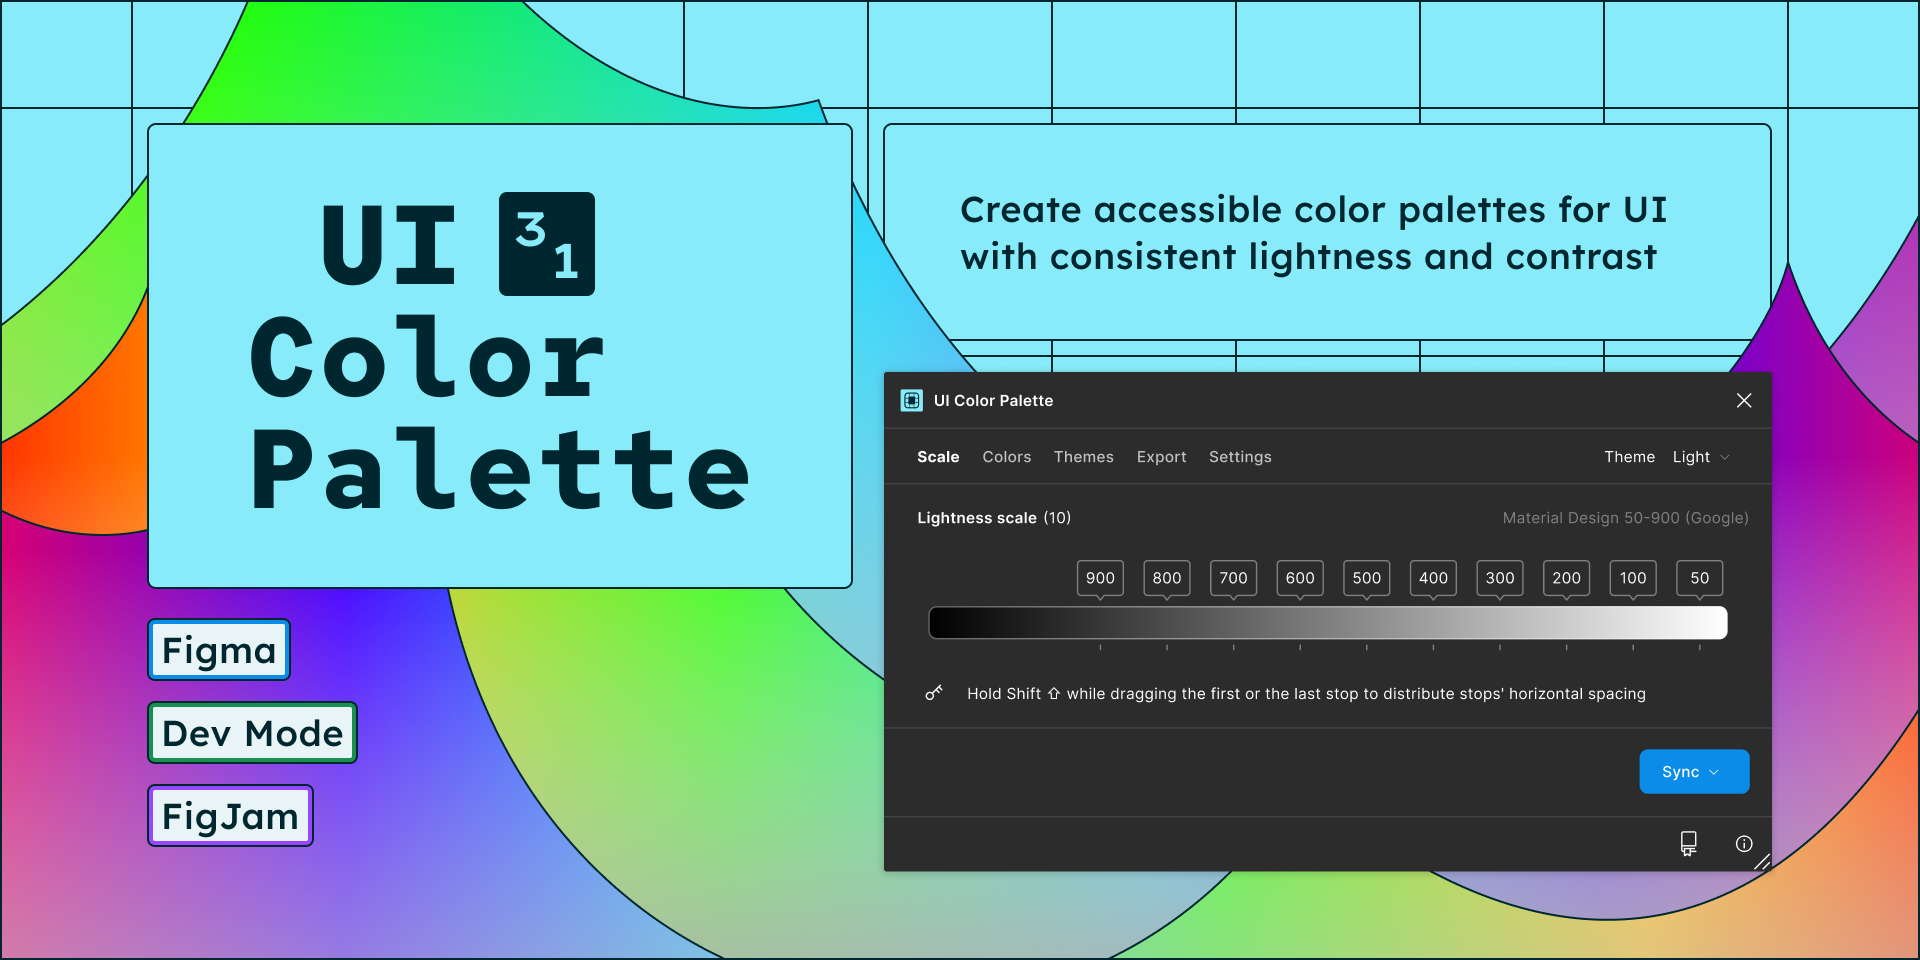
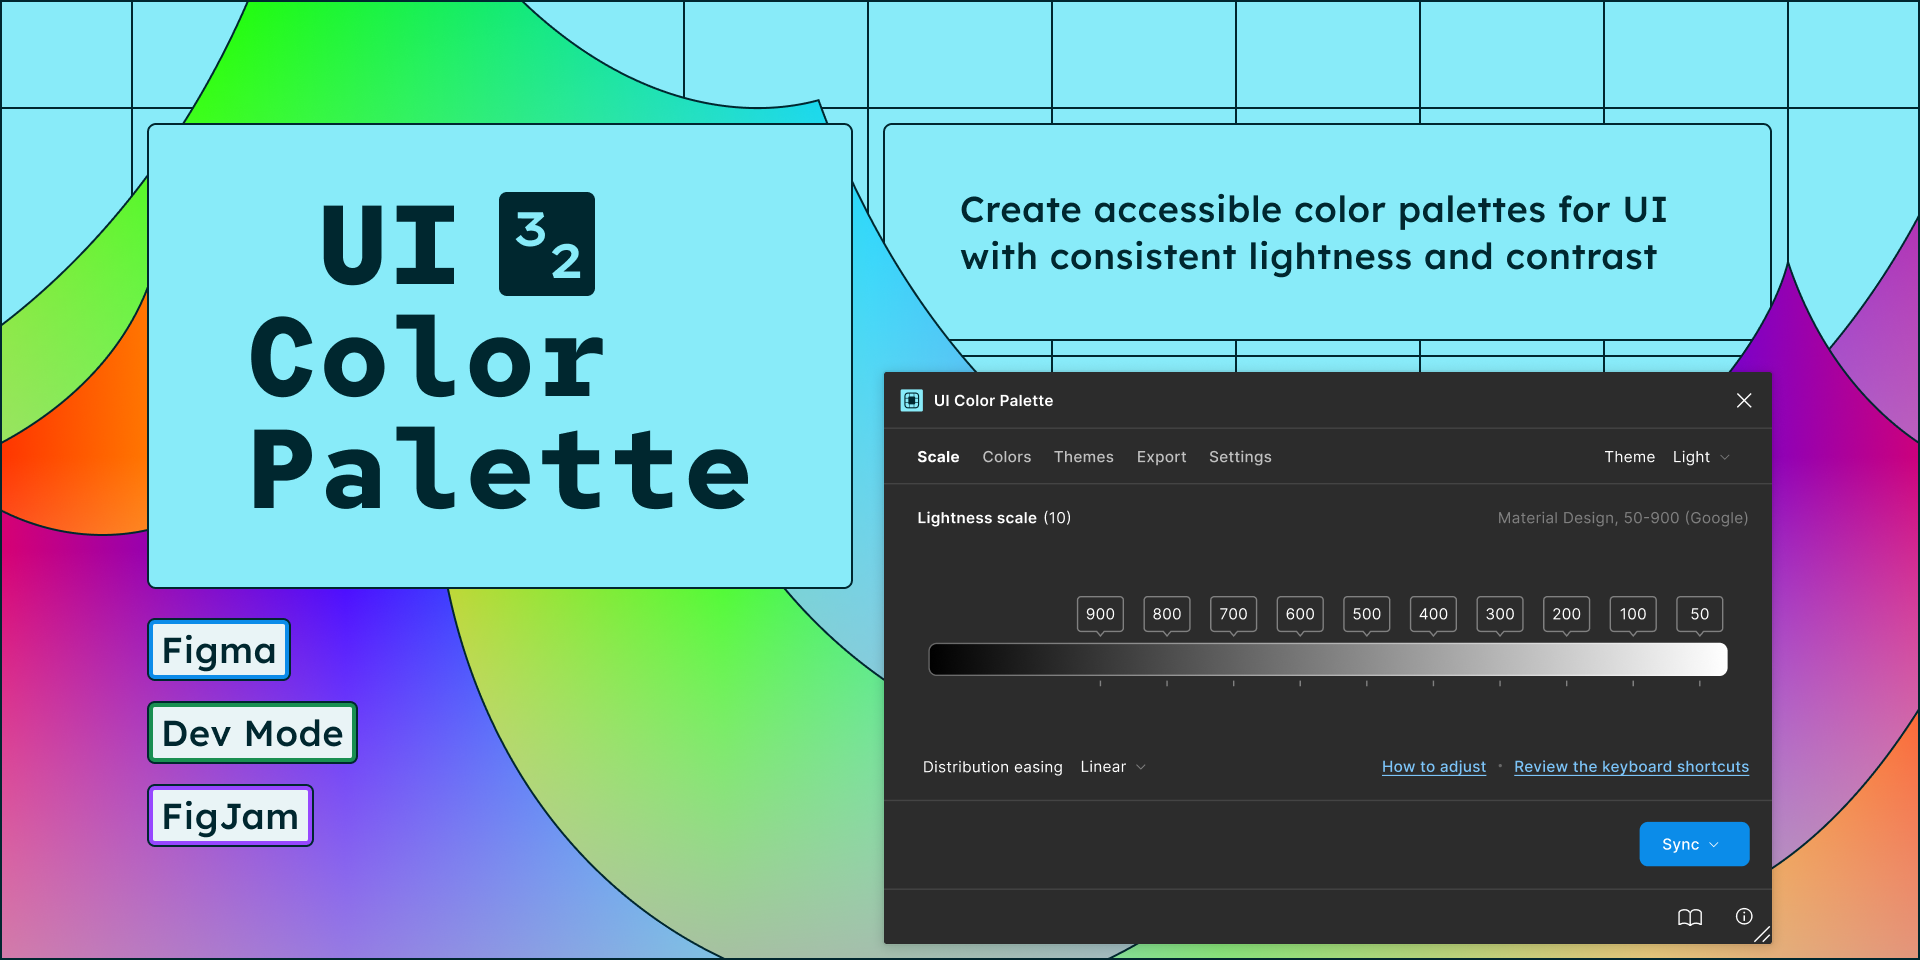
GITBOOK-34: v32

diff --git a/release-notes/ui-color-palette-32.md b/release-notes/ui-color-palette-32.md
@@ -1,0 +1,57 @@
+---
+description: For a better color scaling management
+layout: landing
+---
+
+# UI Color Palette 32
+
+{% embed url="https://drive.google.com/file/d/1-PQqJWuTUx24a5tJYxNdPZNnmTD4BwLj/view?usp=sharing" %}
+
+## Key Feature
+
+### Stops Distribution Easing
+
+<figure><img src="../.gitbook/assets/release_note-distribution_easing.png" alt=""><figcaption></figcaption></figure>
+
+You can distribute stops using pre-configured easing such as "ease" or "ease-in". This method provides a quick way to evenly distribute them across the range, thereby enhancing harmonized color scaling.
+
+## Improvements
+
+### **Canny Forefront Integration**
+
+<figure><img src="../.gitbook/assets/release_note-canny.png" alt=""><figcaption></figcaption></figure>
+
+Canny has been emphasized and prioritized. This promotes user feedback and increases the visibility of community discussions, creating a more interactive and communicative user experience.
+
+### **Custom Naming Convention**
+
+<figure><img src="../.gitbook/assets/release_note-naming_convention.png" alt=""><figcaption></figcaption></figure>
+
+The naming convention within the Custom preset can be adjusted to either increase or decrease the stop number (from 1-10, 10-100, or 100-1000). This option is only available when creating a palette.
+
+### **Scale Tips Simplification**
+
+The tips for using color scaling editing have been clarified and simplified. This update is designed to make these tips easier to understand, providing users with guidance on adjusting the lightness scale with fewer actions.
+
+### **Migration to Dynamically Load Pages**
+
+A migration to Dynamically Load Pages has been implemented. This development is designed to improve the speed and responsiveness of the document, thus reducing load times.
+
+## Minor Changes
+
+* Users can click outside a dialog box to close it.
+* A cursor has been integrated to signify the addition of a stop.
+
+## Bug Fixes
+
+* An issue that was preventing the creation of a palette with properties using Quick Action has been resolved.
+
+***
+
+Also, we want to remind you that we're always listening to your [feedback ](https://uicp.link/feedback)and also your [feature requests](https://uicp.link/feature-requests) and we've made sure to incorporate your most recent feedback into these updates to ensure that they're tailored to your needs.
+
+Besides, you can always get support by sending us an email at [hello@ui-color-palette.com](mailto:hello@ui-color-palette.com) and help us improve the quality of UI Color Palette by [reporting a bug](https://uicp.link/report).
+
+Enjoy your updated UI Color Palette!
+
+UI Color Palette Team

diff --git a/edit-a-color-palette/overview.md b/edit-a-color-palette/overview.md
@@ -14,11 +14,12 @@ description: A quick glance at the controller
    5. `Settings`: Palette configuration.
 2. Select a configured `Color theme`.
 3. Adjust the `Lightness scale`'s stops.
-4. Run the action:
+4. Select a `Distribution easing`.
+5. Run the action:
    1. `Sync the local styles`: Sync the color shades with the document's local styles.
    2. `Sync the local variables`: Sync the color shades with the documents' local variables.
-5. Add a new color to the palette.
-6. Adjust the `Source colors` (from the left to the right):
+6. Add a new color to the palette.
+7. Adjust the `Source colors` (from the left to the right):
    1. Color name
    2. Hexadecimal code
    3. LCH
@@ -26,20 +27,20 @@ description: A quick glance at the controller
    5. Remove
    6. Hue range shifting
    7. Description
-7. Add a new theme to the palette.
-8. Adjust the `Color themes` (from the left to the right):
+8. Add a new theme to the palette.
+9. Adjust the `Color themes` (from the left to the right):
    1. Theme name
    2. Palette background color
    3. Advanced options
    4. Remove
    5. Description
-9. Export file format.
-10. Export preview.
-11. Export the palette to the local machine.
-12. Change the palette `Name`.
-13. Change the palette `Description`.
-14. Change the palette `Layout`.
-15. Select the `Color space`.
-16. Select a `Vision simulation`.
-17. Turn color shades into new ones using the latest algorithm.
-18. Adjust the `Text light color` and `Text dark color` on the color shades.
+10. Export file format.
+11. Export preview.
+12. Export the palette to the local machine.
+13. Change the palette `Name`.
+14. Change the palette `Description`.
+15. Change the palette `Layout`.
+16. Select the `Color space`.
+17. Select a `Vision simulation`.
+18. Turn color shades into new ones using the latest algorithm.
+19. Adjust the `Text light color` and `Text dark color` on the color shades.

diff --git a/create-a-color-palette/set-the-lightness-scale-stops.md b/create-a-color-palette/set-the-lightness-scale-stops.md
@@ -3,10 +3,16 @@
 {% embed url="https://drive.google.com/file/d/1CsKN0T_6ZBsx7NzkFjqCxdpt183NAviz/view?usp=sharing" fullWidth="true" %}
 
 {% hint style="info" %}
-Create first the palette to adjust the lightness scale in real-time.
+First, create the palette to adjust the lightness scale in real-time.
 {% endhint %}
 
 Update a stop by sliding its knob on the range. You can slide every knob by using these shortcuts:
 
 * `Cmd ⌘` (macOS) or `Ctrl ⌃` (Windows) while sliding any knob to move each of them in the desired direction.
 * `Shift ⇪` while sliding the first or the last stop to distribute each of them equally on the range.
+
+The `Distribution easing` drives how the stops are distributed in the range. `Linear` is the default option and allows you to bring an equivalent gap between the stops, but you can select:
+
+* `Ease in` for a quick acceleration at the end.
+* `Ease out` for a quick acceleration at the start.
+* `Ease in and out` for quick acceleration at the start and the end.

diff --git a/edit-a-color-palette/tweak-the-lightness-stops.md b/edit-a-color-palette/tweak-the-lightness-stops.md
@@ -9,7 +9,13 @@
 
 {% embed url="https://drive.google.com/file/d/1jZPC7C1Jf1P8MiXzbOv2Hv8ZFeQjDMIo/view?usp=drive_link" fullWidth="true" %}
 
-You can change the lightness scale in real-time via the slider. Note that it is possible to use the same shortcuts as the creation.
+You can change the lightness scale in real-time via the slider. Note that it is possible to use the same keyboard shortcuts than the creation.
+
+The `Distribution easing` drives how the stops are distributed in the range. `Linear` is the default option and allows you to bring an equivalent gap between the stops, but you can select:
+
+* `Ease in` for a quick acceleration at the end.
+* `Ease out` for a quick acceleration at the start.
+* `Ease in and out` for quick acceleration at the start and the end.
 
 {% hint style="info" %}
 You can tweak a stop with more accuracy:

diff --git a/create-a-color-palette/choose-a-lightness-scale-preset.md b/create-a-color-palette/choose-a-lightness-scale-preset.md
@@ -18,7 +18,11 @@ A preset contains a list of stops named from an established nomenclature. These 
 * `Carbon`, 10 stops, from 10 to 100 (IBM)・Pro.
 * `Base`, 8 stops, from 50 to 700 (Uber)・Pro.
 
-Or make your own from 2 to 24 stops via the `Custom` preset.
+Or make your own from 2 to 24 stops via the `Custom` preset. The stops naming convention can be edited to meet your need, only available with this preset when creating a palette:
+
+* `1 - 24`, the default option, increasing by 1
+* `10 - 240`, increasing by 10
+* `100 - 2400`, increasing by 100
 
 {% hint style="warning" %}
 Managing more than 15 stops could complicate the color system. It also depends on the number of the `Source colors`.

diff --git a/create-a-color-palette/overview.md b/create-a-color-palette/overview.md
@@ -13,7 +13,7 @@ description: A quick glance at the controller
    2. `Settings`: Palette configuration.
 4. Select a `Lightness scale` preset.
 5. Adjust the `Lightness scale`'s stops.
-6. Tip messages.
+6. Select a `Distribution easing`.
 7. Create the palette according to both the `Lightness scale` and the `Settings`.
 8. Change the palette `Name`.
 9. Change the palette `Description`.

diff --git a/SUMMARY.md b/SUMMARY.md
@@ -49,3 +49,4 @@
   * [UI Color Palette 29](release-notes/ui-color-palette-29.md)
   * [UI Color Palette 30](release-notes/ui-color-palette-30.md)
   * [UI Color Palette 31](release-notes/ui-color-palette-31.md)
+  * [UI Color Palette 32](release-notes/ui-color-palette-32.md)
